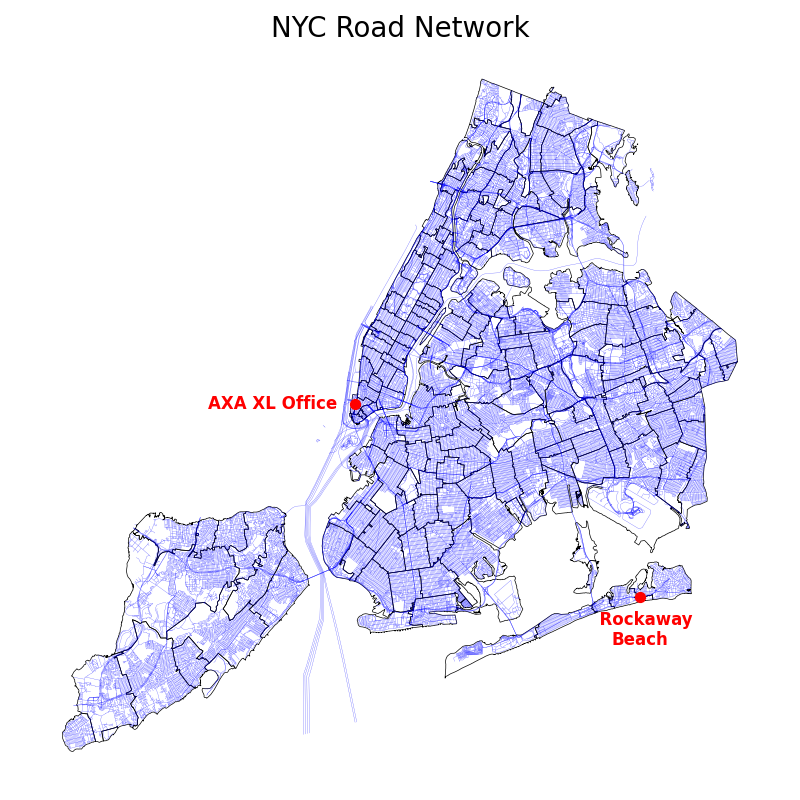
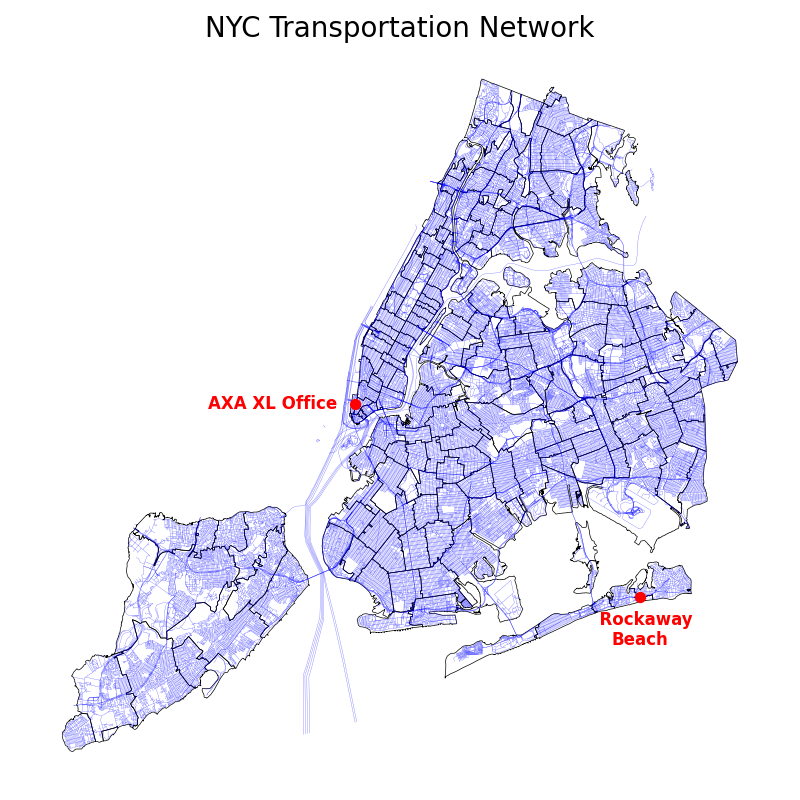
Add Model Diagnostic Checks

Changed region(s): [[0.3438, 0.0, 0.75, 0.0625], [0.25, 0.0, 0.3125, 0.0625]]

diff --git a/02_analysis/individual_pricing.py b/02_analysis/individual_pricing.py
@@ -3,7 +3,6 @@ import os
 import json
 import requests
 import zipfile
-import pandas as pd
 import shutil
 import skfmm
 import geopandas as gpd
@@ -13,11 +12,13 @@ import rasterio
 import pandas as pd
 import xgboost as xgb
 import importlib.util
+import seaborn as sns
 from sklearn.model_selection import train_test_split
-from sklearn.metrics import accuracy_score, log_loss
+from sklearn.metrics import accuracy_score, log_loss, confusion_matrix, roc_auc_score
 from sklearn.preprocessing import LabelEncoder
 from rasterio.features import rasterize
 from affine import Affine
+from xgboost import plot_importance
 from shapely import wkt
 from shapely.geometry import Point
 from sqlalchemy import create_engine, text
@@ -110,7 +111,7 @@ for (lon, lat), label, align in zip(points, labels, alignments):
                 va=align['va'])
 
 # Styling adjustments
-ax.set_title("NYC Road Network", fontsize=20)
+ax.set_title("NYC Transportation Network", fontsize=20)
 ax.set_axis_off()
 
 plt.tight_layout()
@@ -499,9 +500,7 @@ print(temp_stations)
 #%% Load rides data
 query = """
 SELECT *
-FROM trips
-ORDER BY RANDOM()
-LIMIT 100000;
+FROM trips;
 """
 sample_df = pd.read_sql(query, engine)
 
@@ -659,6 +658,67 @@ y_pred_proba = model.predict_proba(X_test)
 print("Accuracy:", accuracy_score(y_test, y_pred))
 print("Log Loss:", log_loss(y_test, y_pred_proba, labels=all_labels))
 
+# Compute Top-N Hit Rates
+top_ns = [1, 3, 5, 10, 20]
+hit_rates = []
+
+for n in top_ns:
+    topn_pred = np.argsort(y_pred_proba, axis=1)[:, -n:]
+    topn_hits = [y_test[i] in topn_pred[i] for i in range(len(y_test))]
+    topn_hit_rate = np.mean(topn_hits)
+    hit_rates.append(topn_hit_rate)
+    print(f"Top-{n} Hit Rate: {topn_hit_rate:.4f}")
+
+# Plot Hit Rates
+plt.figure(figsize=(12, 6))
+plt.bar([f"Top-{n}" for n in top_ns], hit_rates, color='royalblue')
+
+plt.ylim(0, 1)
+plt.ylabel("Hit Rate", fontsize=18)  # correct: fontsize not size
+plt.title("Top-N Hit Rates", fontsize=18)
+plt.xticks(fontsize=16)
+plt.yticks(fontsize=16)
+
+plt.grid(axis='y', linestyle='--', alpha=0.7)
+plt.tight_layout()
+plt.savefig("02_analysis/plots/hit_rates.png")
+plt.close()
+
+# Confusion Matrix
+cm = confusion_matrix(y_test, y_pred)
+cm_normalized = cm.astype('float') / cm.sum(axis=1)[:, np.newaxis]
+
+plt.figure(figsize=(10, 8))
+sns.heatmap(cm_normalized, cmap="Blues", xticklabels=False, yticklabels=False)
+plt.title('Normalized Confusion Matrix')
+plt.xlabel('Predicted Label')
+plt.ylabel('True Label')
+plt.tight_layout()
+plt.savefig("02_analysis/plots/confusion_matrix.png")
+plt.close()
+
+# Feature Importance
+fig, ax = plt.subplots(figsize=(10, 12))
+
+plot_importance(
+    model,
+    ax=ax,
+    importance_type='gain',
+    max_num_features=20,
+    title="Feature Importance (Top 20)",
+    xlabel="Importance (Gain)",
+    show_values=False,
+    grid=False
+)
+
+ax.title.set_fontsize(16)
+ax.xaxis.label.set_fontsize(14)
+ax.yaxis.label.set_fontsize(14)
+ax.tick_params(axis='both', which='major', labelsize=12)
+
+plt.tight_layout()
+plt.savefig("02_analysis/plots/plot_importance.png")
+plt.close()
 #%% Prediction Illustration
 # Create an empty DataFrame with the same columns as your model expects
 X_example = pd.DataFrame(columns=X_train.columns)
